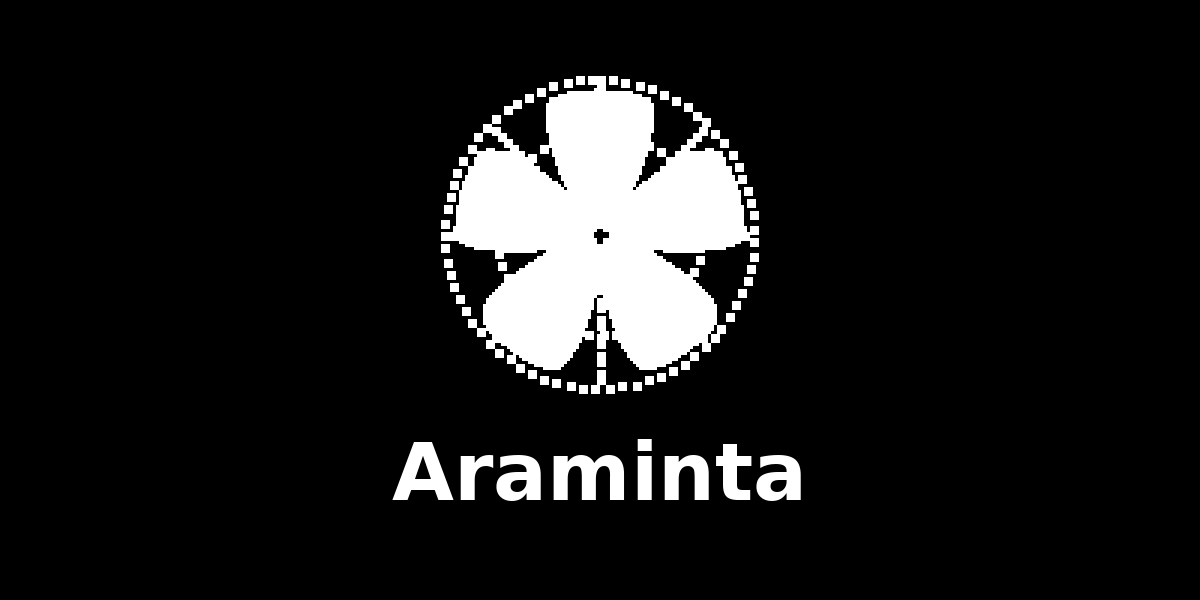
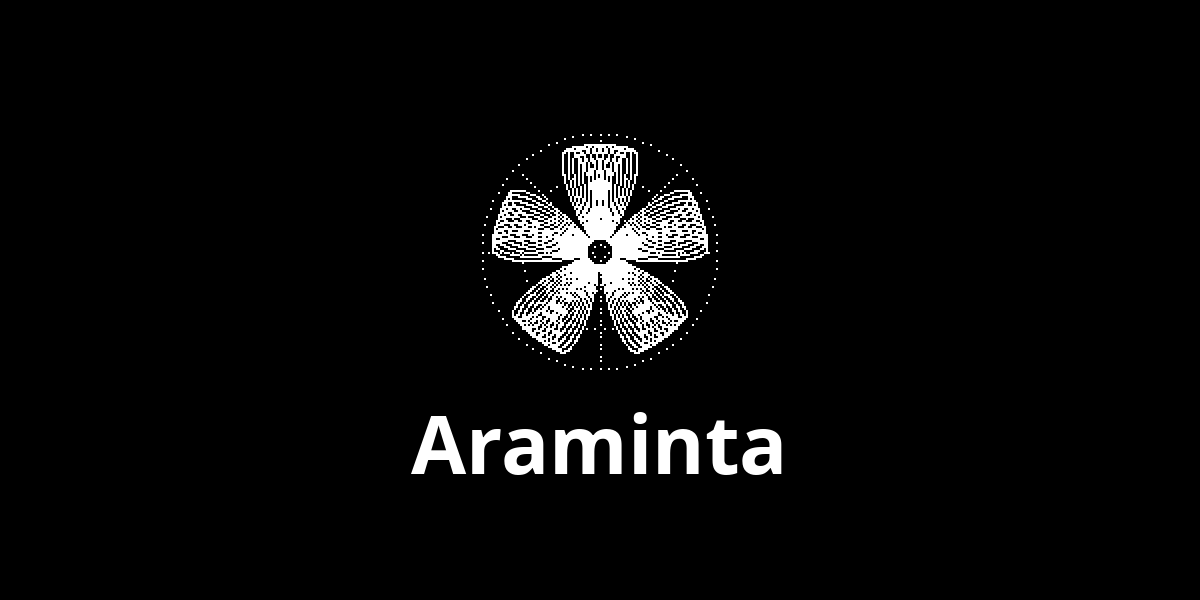
Match README splash to device mark; refresh docs (#29)
* Thin README splash rose to reference density.

Regenerate docs/araminta.png with b=5.1 over two turns and no
3x3 fattening so petal strands stay open, matching the splash
reference instead of the filled 5-turn banner.

* Match README splash to device mark; refresh stale docs.

Regenerate docs/araminta.png from the firmware 128px rose (5 turns,
open hub, no 3x3 fatten) so the banner matches the web/device splash.
Update README for EFFECTS CHAIN/SEND, SEQ PATTERN-first, MIXER PLAY,
DRUM-X Kit trim, FM6 FREQ, and related day-to-day behaviour.

* Refresh README page map for Araminta layout.

Document section walks (HOME↔Mixer, GLO MASTER→RECORD, FX
EFFECTS→PUNCH, SAVE Presets/Project), TL;DR layout notes, and the
Coming-from page summary so they match params.c.

---------

Changed region(s): [[0.37, 0.12, 0.6475, 0.66], [0.3083, 0.69, 0.6783, 0.84]]

diff --git a/README.md b/README.md
@@ -5,7 +5,7 @@
 ![Araminta](docs/araminta.png)
 
 **TL;DR:** Araminta v1.5.1 is a fork of [Felucca](https://github.com/hugelton/Felucca) for the M-VAVE FM-1.
-On top of Felucca 1.5.1 you get DRUM-X, SAMPLE / GRAIN / NOISE back, JIANT punch-ins, Sloop free take, Melodee silent-track motion, and a tighter VOICE page.
+On top of Felucca 1.5.1 you get DRUM-X, SAMPLE / GRAIN / NOISE back, JIANT punch-ins, Sloop free take, Melodee silent-track motion, a tighter VOICE page, an EFFECTS list (CHAIN / SEND + MIX), MIXER PLAY, and SEQ starting on PATTERN.
 Upstream 1.5.1 still brings SEQ > DETAIL, MIDI Program Change, dotted delay times and REV / ECHO THROW.
 Plug the FM-1 into a computer by USB, open the [web installer](https://wulgaren.github.io/Araminta/) in Chrome or Edge, and press Install.
 Install at your own risk: M-VAVE's updater or the installer's **Return to official V15** takes you back.
@@ -30,11 +30,12 @@ Araminta keeps Felucca 1.5.x as the base and layers a few ports and layout shift
 These are the differences that matter day to day:
 
 - **Sloop free take.** Project empty, track armed, transport stopped: the first note starts a free take, so you can record without building a pattern first.
-- **JIANT MIDI punch-ins.** They live on FX under the Punch-in section. SELECT walks pages inside FX sections; holding FX alone does not open punch-ins. Master gets CLIP / PNCH / DUCK. Reverb models add SHIMR / CLOUD.
+- **JIANT MIDI punch-ins.** They live on FX under the Punch-in section (FX taps: EFFECTS → SLICER → PUNCH). SELECT walks pages inside a section; holding FX alone does not open punch-ins. **GLO > MASTER** has CLIP / PNCH / DUCK. Reverb models add SHIMR / CLOUD.
 - **Melodee.** Silent tracks still run LFO, bend, the engine block and fades, so modulation keeps moving when a track is muted or resting.
-- **DRUM-X.** One morphable 8-lane kit instead of Felucca's sampled / VA kit enum (EDIT Sound > Kit > Lanes; Voice stays hidden on DRUM). Kit and mutes save with the project as FUN11 / `FUNB` (same size as FUN10; disk motion max 78). FUN10 loads the factory kit. Old projects that stored a KIT value still play as DRUM-X.
+- **DRUM-X.** One morphable 8-lane kit instead of Felucca's sampled / VA kit enum (EDIT Sound > Kit > Lanes; Voice stays hidden on DRUM). Kit pages are SOUND / SOUND 2 only (no X-MOD / SOUND 3; morph motion via the mod matrix). Kit and mutes save with the project as FUN11 / `FUNB` (same size as FUN10; disk motion max 78). FUN10 loads the factory kit. Old projects that stored a KIT value still play as DRUM-X.
 - **SAMPLE, GRAIN and NOISE** are back (SLICE stays retired). CR78 is not in the ROM sample bank; upload a kit as a USR sample. In the web editor, the Drum kit grid checkbox tags the slot (`FSMP` header); SAMPLE on that USR set then shows the drum grid on SEQ instead of the piano roll, with zones mapped by hand.
-- **VOICE** is one page: VCE, GLD, UNI DTN, SPRD. GLD is free milliseconds (no GLMOD on the page). PAN / MUTE live on MIXER. UNI DTN shows only in UNISON; SPRD only in POLY / UNISON. Blank cards otherwise; values stay stored.
+- **VOICE** is one page: VCE, GLD, UNI DTN, SPRD. GLD is free milliseconds (no GLMOD on the page). PAN / PLAY live on MIXER. UNI DTN shows only in UNISON; SPRD only in POLY / UNISON. Blank cards otherwise; values stay stored.
+- **EFFECTS.** One list for the insert chain: CHOOSE a stage, ORDER moves it, USE AS is CHAIN or SEND, MIX is dry/wet (or send amount). Delay and reverb sit in that list (bus chorus is gone). Dual reverb tanks keep SEND and CHAIN settings while REV is chained; the REVERB page is TYPE / SIZE / DAMP (no TANK column).
 
 Everything below that is Felucca 1.5.1 behaviour unless a note says otherwise.
 
@@ -45,8 +46,9 @@ Everything below that is Felucca 1.5.1 behaviour unless a note says otherwise.
 - **Four tracks**, one synth part each with its own engine and sound (drums are the DRUM / DRUM-X engine);
   8 voices shared between them. ALGORITHM selects the track on every page
 - **Sequencer:** 64 steps per track with chords, ties, accent, slide, per-step chance, velocity and ratchets
-  (a step played 2, 3 or 4 times in its length); a piano roll of the steps, where KNOB 3 sets a note's length
-  (0 clears it) and PRESETS moves that note in time; a drum grid (white keys =
+  (a step played 2, 3 or 4 times in its length); **SEQ** sections are PATTERN, STEP (SELECT: DETAIL), AUTOMATION,
+  then SEQ TOOLS; a piano roll of the steps, where KNOB 3 sets a note's length (0 clears it and advances the cursor)
+  and PRESETS moves that note in time (or, while step-recording with a key held, sets its LEN); a drum grid (white keys =
   steps, black keys = lanes); **SEQ > DETAIL**: the cursor step's chance, ratchet, nudge and velocity on the four
   knobs, drawn as lanes over the steps; automation: recording of knob moves per step (an automation icon marks the cards it
   drives); live loop recording with overdub; Sloop free take when the project is empty; step recording at the cursor (REC on SEQ > STEP while stopped), one
@@ -62,13 +64,14 @@ Everything below that is Felucca 1.5.1 behaviour unless a note says otherwise.
   delete one. 128 records shared by the four tracks. SAVE held undoes every edit
 - **SEQ TOOLS:** hold SEQ on any page for tools on the keys: CLEAR, REVERSE, SHIFT < / >, **RANDOM** (a new beat,
   or new notes in the scale on the same rhythm) and **COOK** (changes the pattern a little each press); on a DRUM
-  track also BEAT and each lane's CLEAR, REVERSE, FILL and RANDOM; KNOB 1-4 are LEN, DIV, SWING and GATE. Each tool
-  is one undo (SAVE held); OCT- puts the track back as the layer found it
+  track also BEAT, **MUTE** (F4 toggles the selected lane) and each lane's CLEAR, REVERSE, FILL and RANDOM;
+  KNOB 1-4 are LEN, DIV, SWING and GATE. Each tool is one undo (SAVE held); OCT- puts the track back as the layer found it
 - **Metronome and count-in:** CLICK (OFF, while recording, or always) with three levels, and a count-in
   of 1 or 2 bars before recording from stop; the click goes to the headphones and speaker only, never to
   USB audio or into a pattern
 - **Songs** (GLO > SONG): up to 16 sections, each naming the project slot (A-D) **every track** plays, or "-" for a
-  track that rests there, with its repeats; drawn as a timeline with a lane per track
+  track that rests there, with its repeats; drawn as a timeline with a lane per track. GLO also holds MASTER, CLOCK
+  and RECORD (HOME is only Home ↔ Mixer)
 - **Chord keys:** one finger plays an in-key chord (triads or sevenths of the scale, or fixed chord
   shapes), with voicings; on the keys, MIDI in, recording and the arpeggiator
 - **Arpeggiator** with UP, DN, UPDN, RND, ORD (the notes in the order you pressed them), REPEAT and, for chords,
@@ -80,9 +83,10 @@ Everything below that is Felucca 1.5.1 behaviour unless a note says otherwise.
   LFO cycle, held or gliding), and **DEPTH** as a destination, so the matrix can modulate the LFO itself
 - **SPREAD** (EDIT > VOICE, SPRD): the voices of a POLY or UNISON track alternate left and right of its PAN
 - **ENV SYNC** (ENV > ENV DEST): the envelope's attack, decay and release as note values of the tempo
-- **Effects:** distortion, an **INSERT** (drives, CRUSH, phaser, flanger, chorus, with a dry / wet MIX) and the
-  SLICER per track; chorus, delay (in time with the tempo, dotted values included) and reverb sends (the reverb as
-  **HALL**, ROOM, SPRING, plus Araminta's **SHIMR** / **CLOUD**); master limiter, with CLIP / PNCH / DUCK on the master
+- **Effects:** an **EFFECTS** list per track (DIST, FILTER, CRUSH, PHASR, FLANG, CHOR, DLY, REV / SLICER stages):
+  CHAIN or SEND with a MIX fader; delay in time with the tempo (divisions or smooth ms, dotted values included);
+  reverb as **HALL**, ROOM, SPRING, plus Araminta's **SHIMR** / **CLOUD**; technical graphs on the FX pages;
+  insert knobs and MIX are mod-matrix destinations; master limiter, with CLIP / PNCH / DUCK on the master
 - **FX layer:** hold FX for repeat, reverse, filter sweeps, tape stop, freeze, a harmonizer
   (OCT UP / OCT DN with shimmer), **FLANGER** and **PHASER** (in time with the tempo), **REV THROW** and **ECHO THROW**
   (every track's reverb or delay send full while held), JIANT punch-ins on their own FX section, and mutes on the black keys;
@@ -219,10 +223,10 @@ where marked here:
 - **ARP ORD now plays the held notes in the order you pressed them** (up to 1.1.5 it played them as UP): a sound
   or project using ORD sounds different when its notes were pressed in another order than low to high.
 - **SAMPLE's PIANO** was a lighter lo-fi piano in 1.4 and 1.4.1; since 1.5 it is the full piano of 1.1.5 again.
-- **The pages moved** (Discussion #153): see Controls below. In short: SEQ is STEP and AUTOMATION; **SEQ held is SEQ
-  TOOLS on every page** (it no longer opens SONG); **GLO opens SONG**; PHRASES is on SAVE; HOME goes round HOME,
-  MIXER and CLOCK (BPM, swing, clock source); TUNE is MENU > AUDIO, MIDI IN (ROUT) is MENU > MIDI, and the USB state
-  and CPU load are MENU > SYSTEM > INFO. REC held is the REC layer as before.
+- **The pages moved** (Discussion #153): see Controls below. In short: SEQ is PATTERN, STEP / DETAIL, AUTOMATION,
+  then SEQ TOOLS; **SEQ held is SEQ TOOLS on every page** (it no longer opens SONG); **GLO** goes MASTER, SONG,
+  CLOCK, RECORD; PHRASES is on SAVE; HOME is Home ↔ Mixer; TUNE is MENU > AUDIO, MIDI IN (ROUT) is MENU > MIDI,
+  and the USB state and CPU load are MENU > SYSTEM > INFO. REC held is the REC layer as before.
 - **SONG has a lane per track**: older songs load with all four tracks on each row's slot and play as before; its
   knobs are KNOB 1 SECTION, 2 TRACK, 3 PAT, 4 REPS, and on SONG the white keys A3 B3 C4 D4 set the slot.
 - **A fresh start uses the HALL reverb** (up to 1.1.5: ROOM). Saved projects keep their reverb TYPE.
@@ -238,21 +242,23 @@ where marked here:
 - Hold FX, GLO, SCL, EDIT, REC or SEQ for its quick layer; hold SAVE to undo, HOME for the menu; hold LFO and turn a
   knob for a MOMENTARY change
 - Double-tap a layer's button to keep its layer open without holding; tap it again to close
-- On SEQ > STEP, hold a step and turn KNOB 1-4 to lock those parameters on that step (PRESETS: move the held steps in time)
+- On SEQ > STEP, hold a step and turn KNOB 1-4 to lock those parameters on that step (PRESETS: move the held steps in time; while step-recording with a key held, PRESETS sets that note's LEN)
+- On MIXER, KNOB 4 is **PLAY**: ON (default), OFF, or SOLO (saved with the track)
 - On action pages and in dialogs, OCT+ does it and OCT− goes back; in the menu, OCT+ / OCT− change the value and HOME closes it
 - Save a sound: stop, tap SAVE, pick a slot with KNOB 1, then OCT+ and OCT+ again (name it with the keys)
 
 The pages by button:
 
-| Button | Taps go round | Held |
+| Button | Taps go round (sections; SELECT walks pages inside one) | Held |
 |---|---|---|
-| HOME | HOME, MIXER, CLOCK (BPM, swing, clock source) | the menu |
-| SEQ | STEP (the piano roll, or the drum grid), DETAIL, AUTOMATION | SEQ TOOLS, on every page |
-| GLO | SONG | the GLO layer (mutes, solos, levels, TAP tempo, D4: MIDI LEARN) |
-| SAVE | USER, PRESETS, PHRASES (the pattern loader), PROJECT, TOOLS | UNDO |
-| LFO | LFO, LFO 2, LFO DEST; then MOD | MOMENTARY (with a knob) |
-| EDIT | EDIT 1, EDIT 2, VOICE (VCE/GLD/UNI DTN/SPRD; FM6 adds OPERATOR, OP ENV; DRUM: Sound / Kit / Lanes, no Voice; ANALOG FILTER, FILTER DRIVE instead of EDIT 2) | the EDIT layer (the engines; on DRUM the black keys mute lanes) |
-| FX, SCL, ENV, ARP | their pages (FX: INSERT and INSERT 2 after the SLICER) | FX and SCL: their layers |
+| HOME | Home ↔ Mixer | the menu |
+| SEQ | PATTERN, STEP (SELECT: STEP / DETAIL), AUTOMATION, SEQ TOOLS | SEQ TOOLS, on every page |
+| GLO | MASTER, SONG, CLOCK, RECORD | the GLO layer (mutes, solos, levels, TAP tempo, D4: MIDI LEARN) |
+| SAVE | Presets (SELECT: PRESETS / USER / PHRASES), Project (SELECT: PROJECT / TOOLS) | UNDO |
+| LFO | LFO (SELECT: LFO / LFO 2 / LFO DEST), then MOD | MOMENTARY (with a knob) |
+| EDIT | Sound (EDIT 1 / 2; FM6 adds OPERATOR, OP ENV; ANALOG FILTER / FILTER DRIVE), Kit, Lanes, Voice (hidden on DRUM) | the EDIT layer (the engines; on DRUM the black keys mute lanes) |
+| FX | EFFECTS (SELECT: list + stage pages), SLICER, PUNCH | the FX layer |
+| SCL, ENV, ARP | their pages | SCL: its layer |
 | REC | arms the track | the REC layer (CLEAR, CLICK, COUNT-IN, CLICK LEVEL) |
 
 ## Menu
@@ -327,9 +333,10 @@ In the order the device lists them:
 - **ANALOG**: virtual analog; two oscillators (WAVE SYNC: the second hard-synced to the first; SUB: a square an
   octave down), noise, drive, a resonant filter: low-pass, band-pass or high-pass (EDIT > FILTER)
 - **FM6**: classic 6-operator FM (Dexed-based): 32 algorithms, a full patch per track, edited in the
-  web editor (which imports .syx files) or on the device: EDIT > OPERATOR (FREQ: ratio then fixed Hz, fine, level)
-  and OP ENV (each stage's rate and level, drawn as the envelope), one operator at a time on the algorithm chart;
-  macros on top; SLOT picks a factory patch (F1-F8), the track's own (OWN) or a voice of the bank the web editor sent (B1-B32)
+  web editor (which imports .syx files) or on the device: EDIT > OPERATOR (FREQ is one list: ratio then fixed Hz,
+  fine, level; no OPERATOR 2 page) and OP ENV (each stage's rate and level, drawn as the envelope), one operator
+  at a time on the algorithm chart; macros on top; SLOT picks a factory patch (F1-F8), the track's own (OWN) or a
+  voice of the bank the web editor sent (B1-B32)
 - **PHASE**: phase distortion (ported from CrispyZebra)
 - **LOFI**: chiptune; pulse, triangle, saw, noise and a 4-bit wave RAM, stepped envelope, sweep, arpeggio
 - **SAMPLE**: multisampled instruments (PIANO, FLUTE, SAX) and 3 user sample slots; a USR slot can be tagged
@@ -341,8 +348,8 @@ In the order the device lists them:
 - **PHYS**: physical models: modal resonators, strings, struck membranes, sympathetic strings
 - **NOISE**: noise from analog to digital: colours, crackle, shift-register and metallic tones
 - **DRUM**: DRUM-X, an 8-lane morphable kit on the General MIDI key map (JIANT port). EDIT sections
-  **Sound** (MRPH / TUNE / TONE / DECY and NOIS / FM / FOLD / DRV), **Kit** (SOUND / SOUND 2) and **Lanes**.
-  Kit and mute persist in FUN11 projects (FUN10 opens with the factory kit). Old Felucca KIT values
+  **Sound** (MRPH / TUNE / TONE / DECY), **Kit** (SOUND: lane A/B plus pitch env; SOUND 2: DCAY / NOIS / COLR / MODE)
+  and **Lanes**. Kit and mute persist in FUN11 projects (FUN10 opens with the factory kit). Old Felucca KIT values
   still play as DRUM-X. SLICE is retired; old stores load as DRUM
 
 The DIGITAL engine of 0.9 has been replaced by FM6: projects and presets with DIGITAL sounds load
@@ -359,9 +366,10 @@ PIANO HD); 1.5 brings the full piano back.
 
 **SLICER** (FX page, every track): a tempo-synced 16-step gate or stutter, with 16 patterns.
 
-**Reverb** (FX > REVERB, TYPE): **HALL** (since 1.4, the default on a fresh start: eight delay lines feeding each
-other with slowly drifting taps, stereo, SIZE the decay up to about 4.5 s, DAMP how fast the highs die), **ROOM** (the
-default up to 1.1.5) and **SPRING**. A project plays the TYPE it was saved with.
+**Reverb** (FX > REVERB): KNOB 1–3 are TYPE / SIZE / DAMP for the tank the track owns (SEND or CHAIN).
+**HALL** (since 1.4, the default on a fresh start: eight delay lines feeding each other with slowly drifting taps,
+stereo, SIZE the decay up to about 4.5 s, DAMP how fast the highs die), **ROOM** (the default up to 1.1.5),
+**SPRING**, plus Araminta's **SHIMR** / **CLOUD**. A project plays the TYPE it was saved with.
 
 ## Scale keyboard
 
